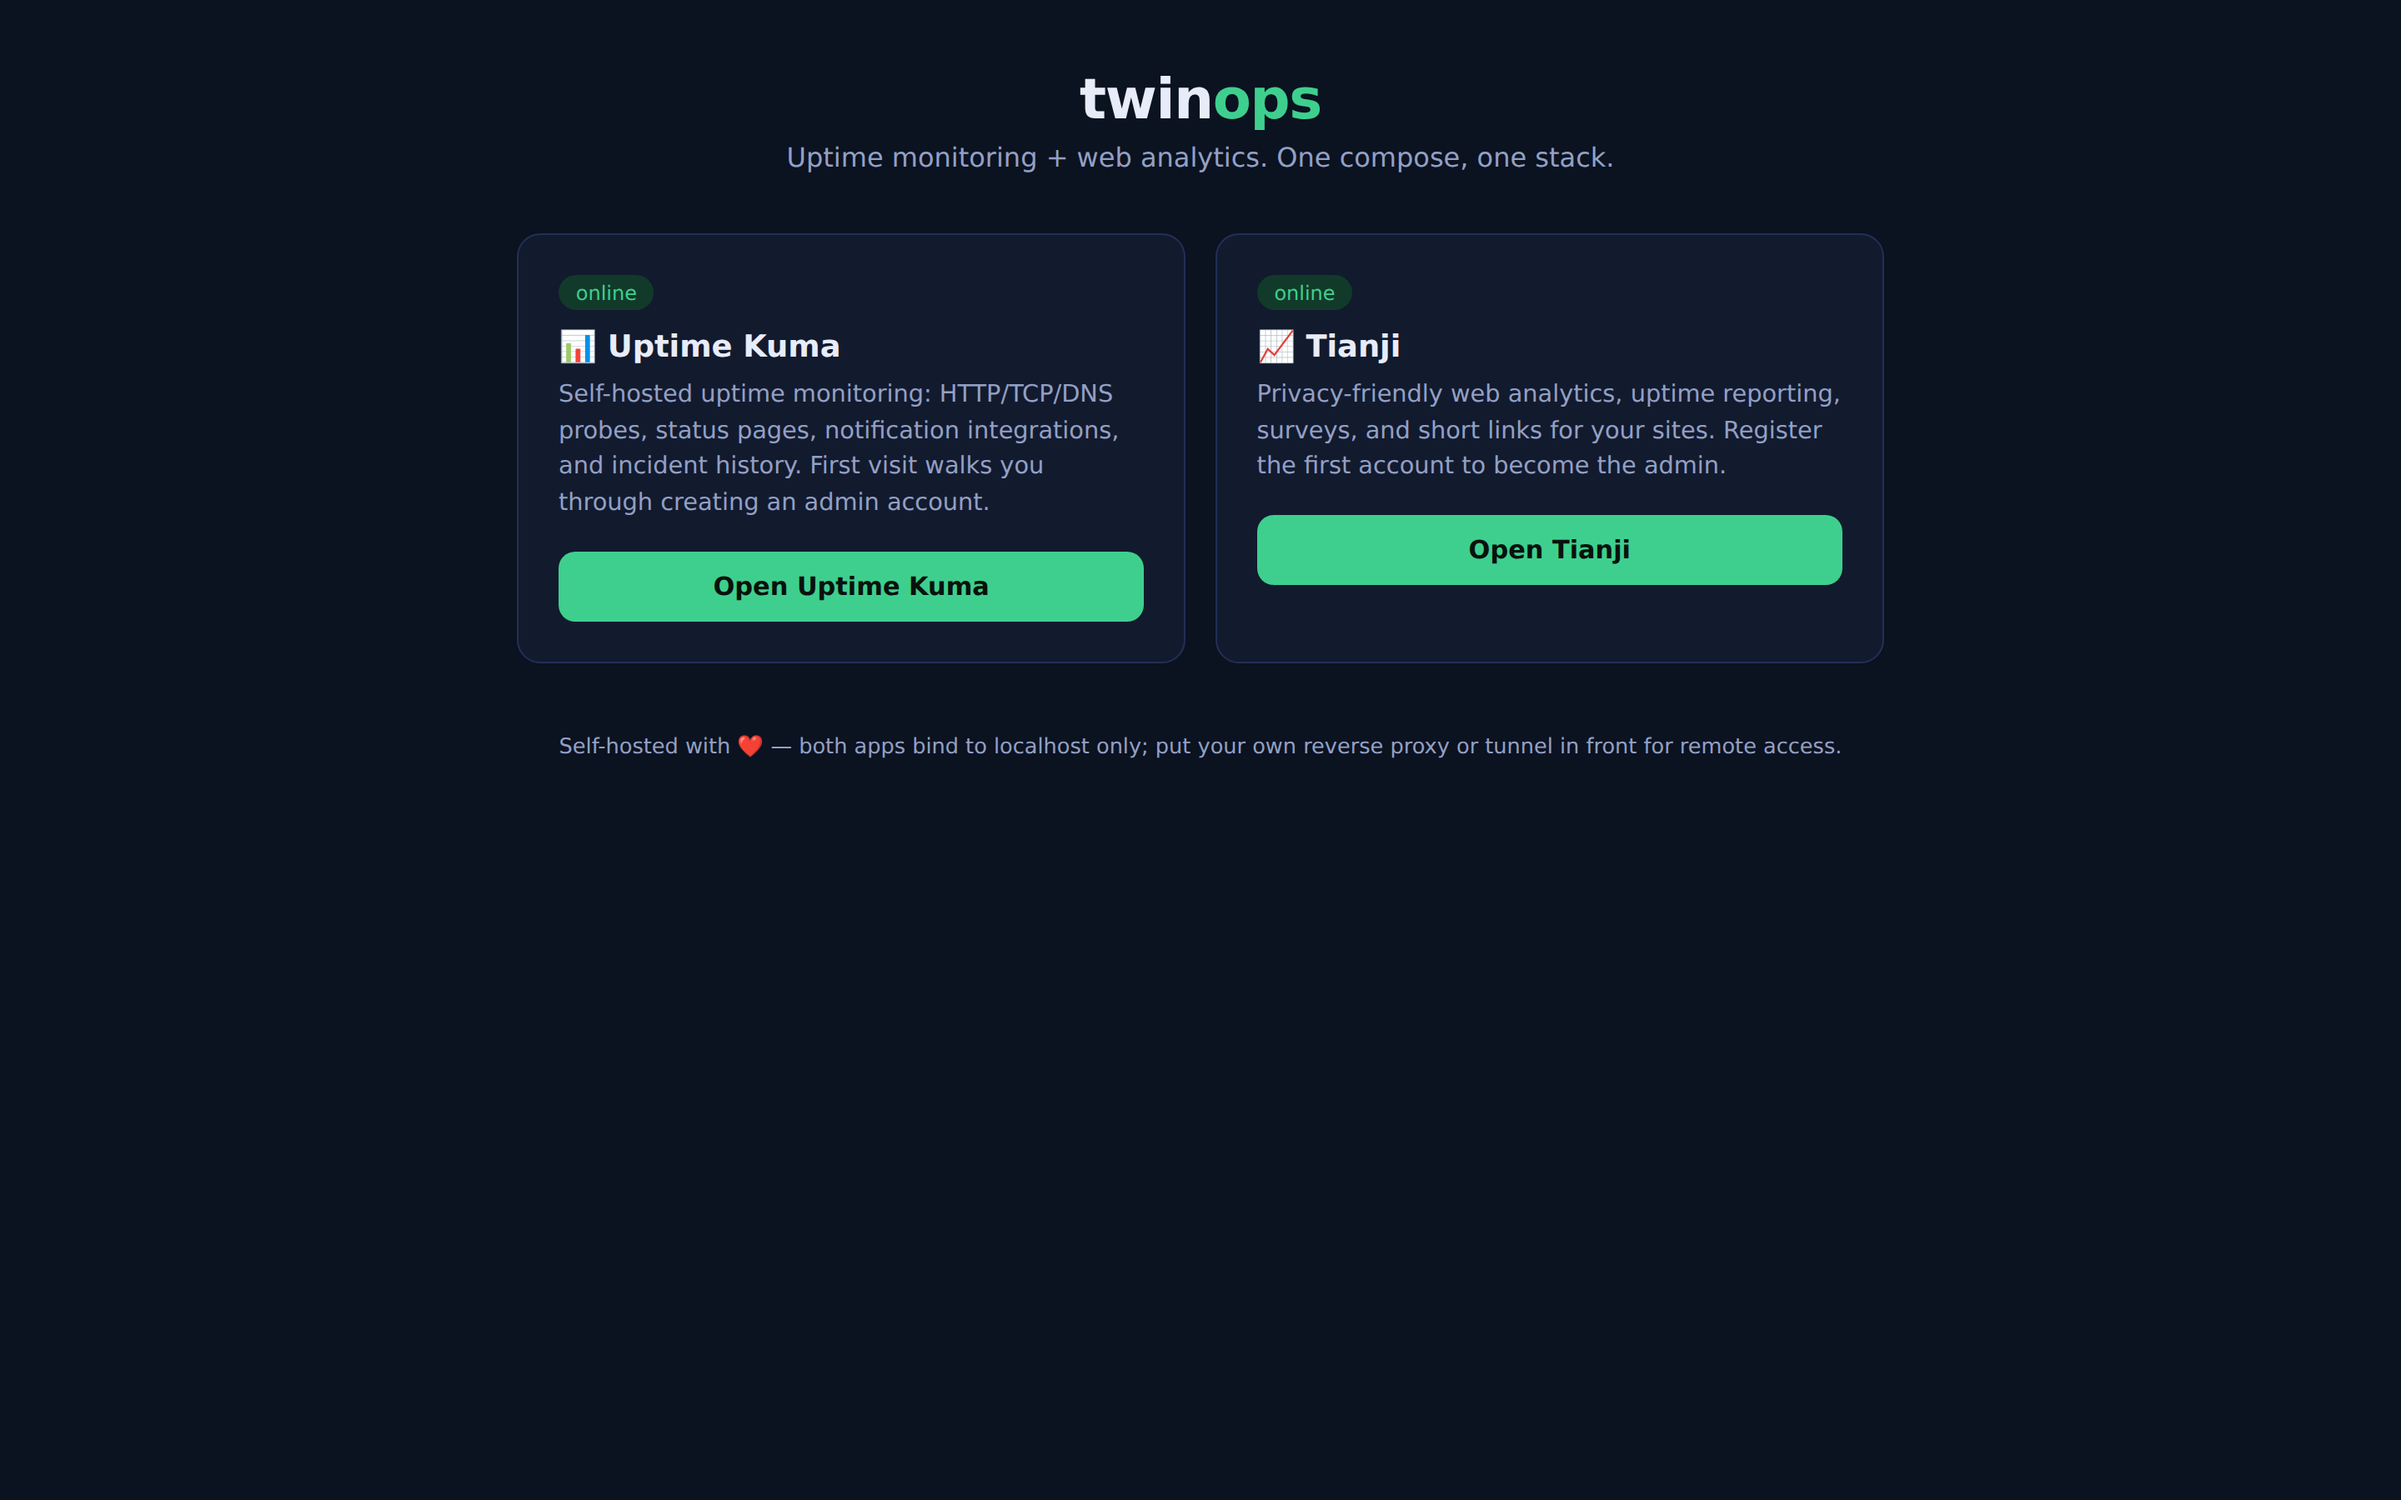
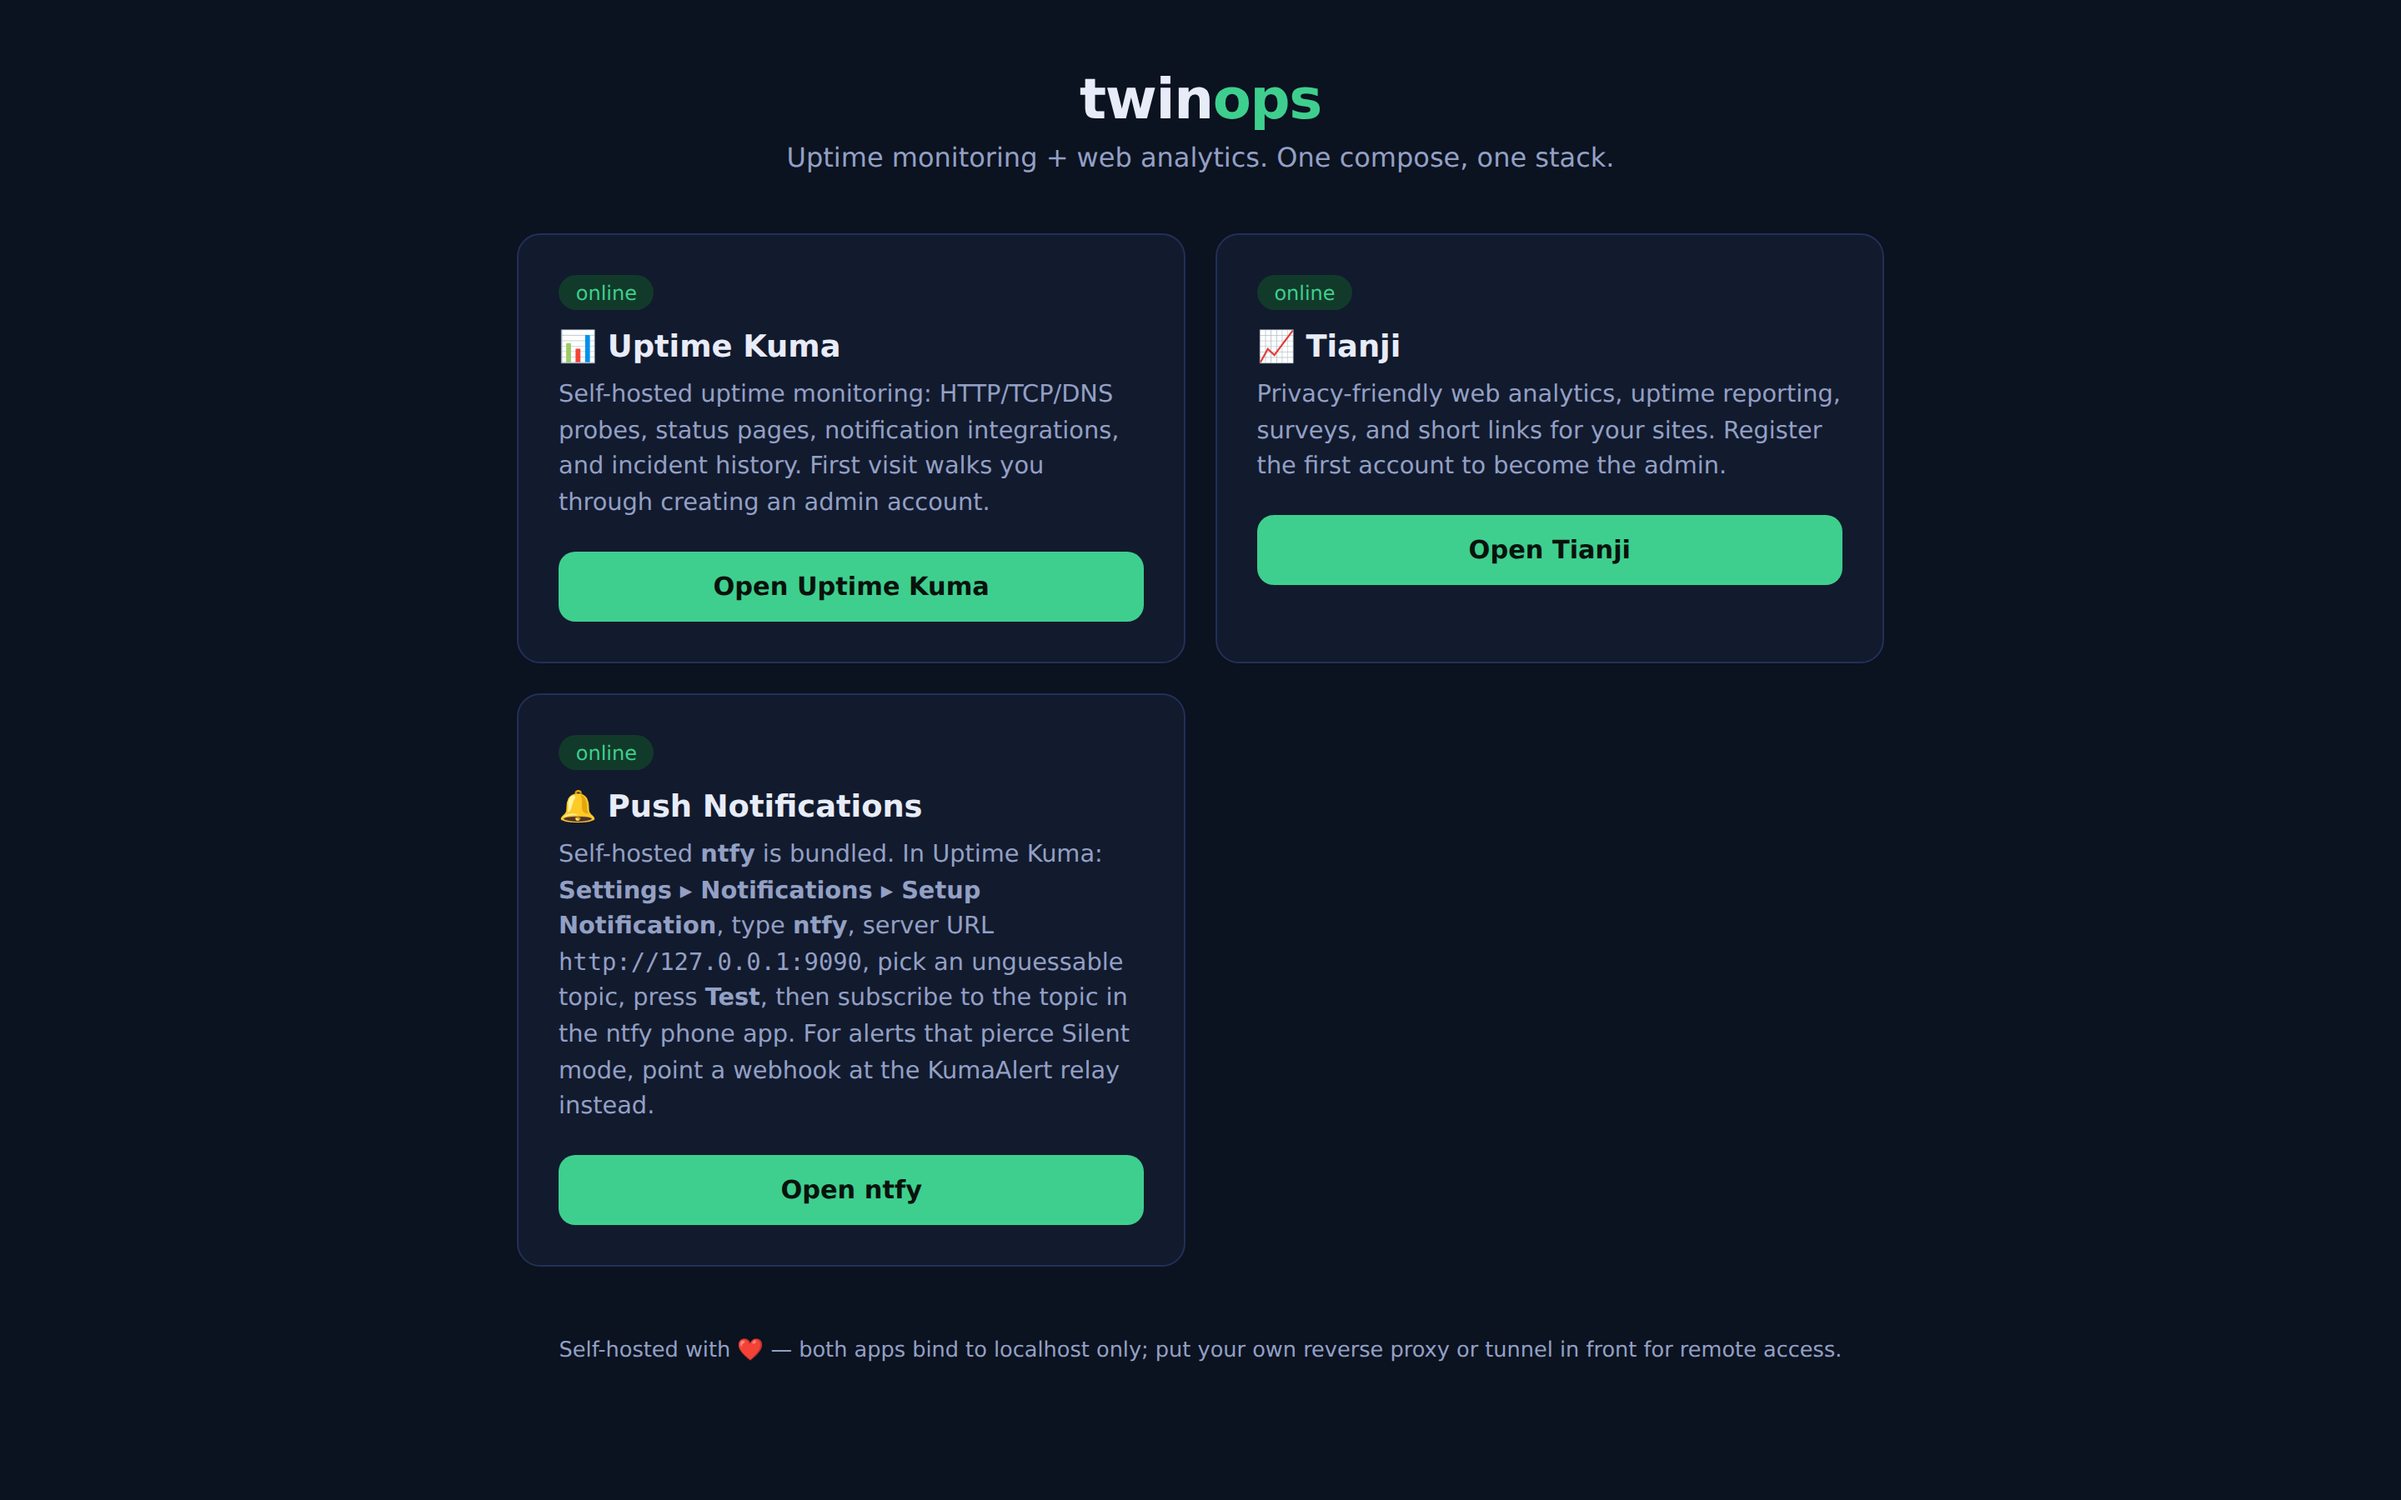
feat: bundle self-hosted ntfy push notifications + KumaAlert webhook route

Changed region(s): [[0.2188, 0.4667, 0.5, 0.84], [0.25, 0.8711, 0.3125, 0.9022]]

diff --git a/portal/index.html b/portal/index.html
@@ -44,6 +44,13 @@
     <p>Privacy-friendly web analytics, uptime reporting, surveys, and short links for your sites. Register the first account to become the admin.</p>
     <a class="btn" href="__TIANJI_URL__">Open Tianji</a>
   </div>
+
+  <div class="card">
+    <span class="pill unknown" id="ntfy-pill">checking…</span>
+    <h2>🔔 Push Notifications</h2>
+    <p>Self-hosted <b>ntfy</b> is bundled. In Uptime Kuma: <b>Settings ▸ Notifications ▸ Setup Notification</b>, type <b>ntfy</b>, server URL <code>http://127.0.0.1:9090</code>, pick an unguessable topic, press <b>Test</b>, then subscribe to the topic in the ntfy phone app. For alerts that pierce Silent mode, point a webhook at the KumaAlert relay instead.</p>
+    <a class="btn" href="__NTFY_URL__" target="_blank" rel="noopener">Open ntfy</a>
+  </div>
 </div>
 
 <footer>Self-hosted with ❤ — both apps bind to localhost only; put your own reverse proxy or tunnel in front for remote access.</footer>

diff --git a/portal/server.py b/portal/server.py
@@ -9,6 +9,8 @@ KUMA_URL = os.environ.get("KUMA_URL", "http://127.0.0.1:3001")
 KUMA_INTERNAL = os.environ.get("KUMA_INTERNAL", "http://kuma:3001")
 TIANJI_URL = os.environ.get("TIANJI_URL", "http://127.0.0.1:12345")
 TIANJI_INTERNAL = os.environ.get("TIANJI_INTERNAL", "http://tianji:12345")
+NTFY_INTERNAL = os.environ.get("NTFY_INTERNAL", "http://ntfy:80")
+NTFY_URL = os.environ.get("NTFY_URL", "http://127.0.0.1:9090")
 ROOT = os.path.dirname(os.path.abspath(__file__))
 
 
@@ -37,6 +39,7 @@ class Handler(BaseHTTPRequestHandler):
             payload = json.dumps({
                 "kuma": probe(KUMA_INTERNAL),
                 "tianji": probe(TIANJI_INTERNAL),
+                "ntfy": probe(NTFY_INTERNAL),
             }).encode()
             return self._send(200, "application/json", payload)
         if path in ("/", ""):

diff --git a/README.md b/README.md
@@ -21,6 +21,7 @@ Brings together two of the best self-hosted tools — [Uptime Kuma](https://gith
 | **Uptime Kuma** | `louislam/uptime-kuma:1` | Uptime probes (HTTP/TCP/DNS/push), status pages, alerting | `3001` |
 | **Tianji** | `moonrailgun/tianji` | Privacy-friendly web analytics, surveys, short links, server status | `12345` |
 | **Tianji Postgres** | `postgres:15.4-alpine` | Tianji's data store | internal |
+| **ntfy** | `binwiederhier/ntfy` | Self-hosted push notifications (Uptime Kuma → ntfy → phone) | `9090` |
 | **Portal** | built from `portal/` | Landing page with live service status | `8080` |
 
 ## How The Apps Were Analyzed
@@ -48,6 +49,20 @@ First-run setup:
 
 1. **Uptime Kuma** — `http://127.0.0.1:3001` → create the admin account → add monitors.
 2. **Tianji** — `http://127.0.0.1:12345` → register the first account (becomes admin) → create a website and paste its tracking script into the sites you want measured.
+
+## Push Notifications
+
+The stack ships its own [ntfy](https://ntfy.sh) server, so outages reach your
+phone with zero third-party accounts:
+
+1. Install the ntfy app (iOS/Android) and subscribe to an **unguessable topic** (e.g. `twinops-a7f2c9d41b8e`).
+1. In Uptime Kuma: **Settings > Notifications > Setup Notification** -> type **ntfy** -> server URL `http://127.0.0.1:9090` (the bundled server) -> topic as above -> priority High/Max -> press **Test**.
+1. Attach the notification to your monitors (tick it in each monitor's Notifications list).
+
+For alerts that pierce iPhone Silent mode, [KumaAlert](https://kumaalert.app) holds Apple's
+Critical Alerts entitlement: add your server in the KumaAlert app, and it generates an
+outbound webhook - configure that webhook URL as a **Webhook** notification in Uptime Kuma.
+The webhook is outbound-only, so the stack stays unreachable from the internet.
 
 ## Remote Access
 
